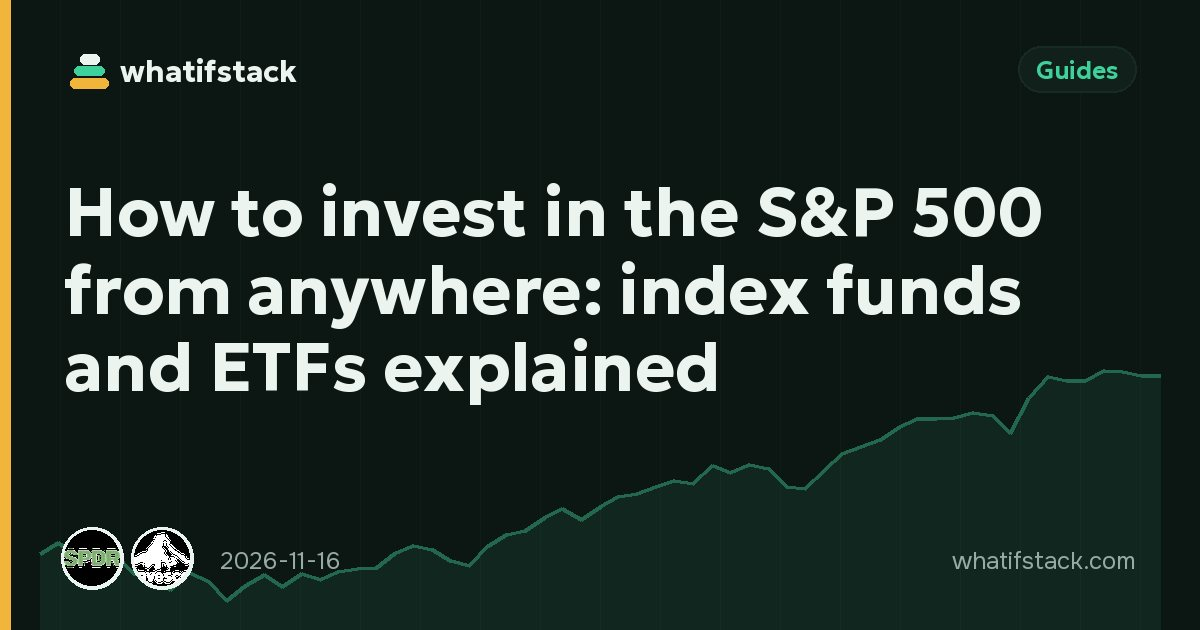
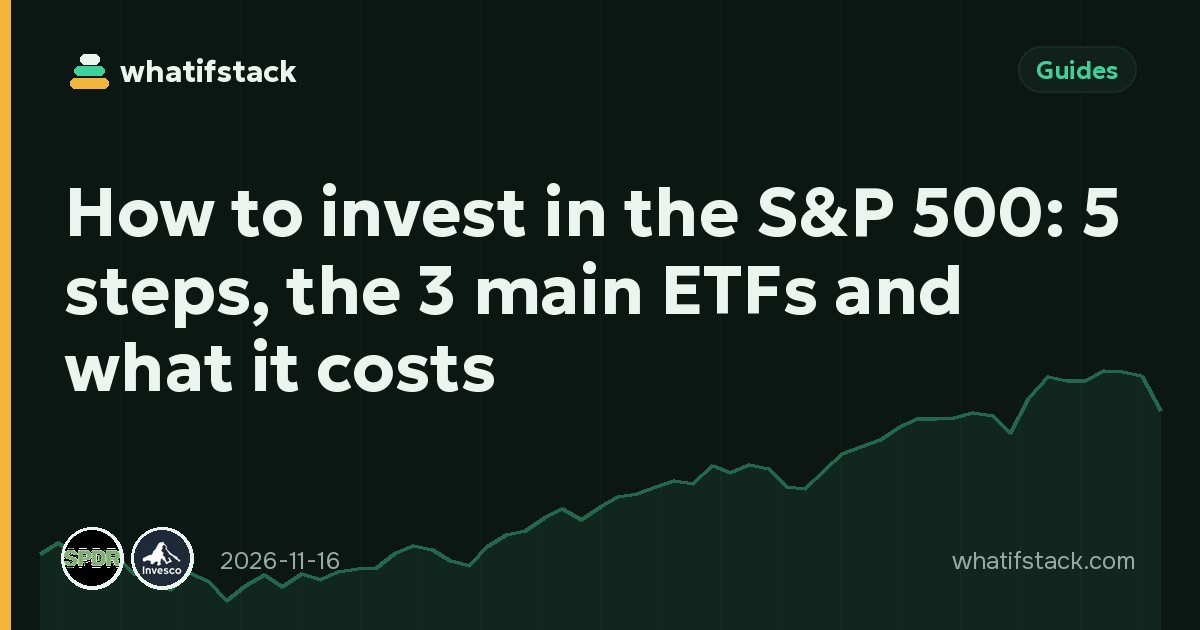
SEO: 5 pages (ja/how-to-buy-bitcoin, en/how-to-invest-in-sp500, ja/what-is-ethereum, th/how-to-invest-in-sp500, es/what-is-a-dex)
Claude-Session: https://claude.ai/code/session_01Nmn9VRCQsHGjEWwWUTMvjW

Changed region(s): [[0.0308, 0.4222, 0.8633, 0.6333], [0.8633, 0.3016, 0.9558, 0.3921], [0.0925, 0.8444, 0.185, 0.9349]]

diff --git a/social/seo-log.md b/social/seo-log.md
@@ -1,0 +1,17 @@
+# SEO quality log — «quality + SEO» task
+
+Rules: ≤ 5 pages per run; each page changed at most once per 30 days; never URLs/slugs; only that page's own title / description / lead (asset pages: only the asset's own data). After 14 days fill «result» (clicks / CTR / position before → after); revert if clearly worse.
+
+date | url | query | impressions | position | CTR | what changed | result after 14 days
+---|---|---|---|---|---|---|---
+2026-11-23 | /ja/blog/how-to-buy-bitcoin/ | 仮想通貨 買い方 (17 / 15.5); 暗号資産 買い方 15 / 24.5; ビットコイン 購入 15 / 30.1; ビットコイン 買い方 23 / 71.1 | 195 | 49.9 | 0 % (0 clicks) | title «ビットコインの買い方:仮想通貨(暗号資産)を1,000円から購入する6ステップ», description (6 steps, 1,000円), lead answers in 2 sentences (6 steps, 金融庁 registered exchange → KYC → JPY → buy); new cover. Live check OK (no raw {{ }}, 390 px OK) | due 2026-12-07
+2026-11-23 | /en/blog/how-to-invest-in-sp500/ | how to invest in s&p 500 (19 / 45.5); how to invest in s&p 500 index fund 9 / 70.7; buy s&p 500 7 / 66.3 | 151 | 60.6 | 0 % | title «How to invest in the S&P 500: 5 steps, the 3 main ETFs and what it costs», description with 5 steps + SPY/VOO/IVV, new lead that answers how (ETF via regulated broker, fractional shares); new cover. Live check OK | due 2026-12-07
+2026-11-23 | /ja/blog/what-is-ethereum/ | イーサリアム (18 / 25.7); ethとは 9 / 20.0; イーサリアムとは 8 / 37.9 | 94 | 42.6 | 0 % | title «イーサリアム(ETH)とは?仕組みとビットコインとの違いをわかりやすく解説», description (2015, smart contracts, gas, staking), first sentence «イーサリアム(ETH)とは…»; new cover. Live check OK | due 2026-12-07
+2026-11-23 | /th/blog/how-to-invest-in-sp500/ | วิธีซื้อกองทุน s&p 500 (13 / 16.8); s p500 etf 10 / 6.5; sp 500 etf 6 / 8.0 | 76 | 32.8 | 0 % | title «วิธีซื้อกองทุน S&P 500 สำหรับคนไทย: 2 ทางเลือก, ETF อย่าง SPY/VOO และค่าใช้จ่าย», description, new first paragraph answering the 2 ways (Thai fund in THB / foreign broker ETF); new cover. Live check OK | due 2026-12-07
+2026-11-23 | /es/blog/what-is-a-dex/ | dex crypto (13 / 32.1); que es un dex crypto 12 / 32.2; dex cripto 10 / 32.3; dex criptomonedas 8 / 35.4 | 52 | 33.6 | 0 % | title «Qué es un DEX en cripto: cómo funciona un exchange descentralizado frente a un CEX», description (0,05–1 % per swap), first sentence «¿Qué es un DEX en cripto?»; new cover. Live check OK | due 2026-12-07
+
+## Notes (not changed — template/code pages, for the owner)
+- 2026-11-23: converter hubs /it/ /fr/ /es/ /ru/ /ja/converter/ have the most impressions (290 / 226 / 166 / 158 / 132, pos 9–16, 0 clicks) but only for junk queries («<bank> mobile apps», operator searches) — no real demand to target.
+- 2026-11-23: /en/crypto-exchanges/ 89 impr / pos 25 («biggest / largest crypto exchanges») is noindex by the owner's choice (hidden since 2026-11-20).
+- 2026-11-23: /ru/largest-companies/ 87 / 8.8 («крупнейшие компании мира по капитализации») and /tr/largest-companies/ 52 / 16.8 («dünyanın en büyük şirketleri 2026» 14 / 7.2) — title already matches; the meta description is the shared generic `lead` in scripts/i18n_lc.py, so a page-own description needs a small code change (owner decision).
+- 2026-11-23: /en/largest-companies/uk/ 92 / 24.6 — ranking wrong (GBp market caps ÷100), already reported.

diff --git a/content/blog/th/how-to-invest-in-sp500.md b/content/blog/th/how-to-invest-in-sp500.md
@@ -1,10 +1,12 @@
 ---
-title: ลงทุน S&P 500 ยังไง สำหรับคนไทย: กองทุนดัชนีและ ETF อธิบายง่าย ๆ
-description: ลงทุน S&P 500 ยังไงสำหรับคนไทย: ดัชนีนี้คืออะไร ETF อย่าง SPY และ VOO ทำงานอย่างไร กองทุนรวมไทยที่อิง S&P 500 มีค่าใช้จ่ายอะไรบ้าง และผลของการทยอยซื้อในอดีต
+title: วิธีซื้อกองทุน S&P 500 สำหรับคนไทย: 2 ทางเลือก, ETF อย่าง SPY/VOO และค่าใช้จ่าย
+description: วิธีซื้อกองทุน S&P 500 สำหรับคนไทย 2 ทาง: กองทุนรวมไทยเป็นเงินบาท หรือ ETF อย่าง SPY/VOO ผ่านโบรกเกอร์ต่างประเทศ ค่าใช้จ่าย ความเสี่ยงค่าเงิน ผลการทยอยซื้อ
 date: 2026-11-16
 category: guides
 assets: spy, qqq, gold
 ---
+**วิธีซื้อกองทุน S&P 500** สำหรับคนไทยมี 2 ทาง: ซื้อกองทุนรวมไทยที่อิง S&P 500 เป็นเงินบาทผ่านแอปธนาคารหรือแพลตฟอร์มซื้อกองทุน หรือเปิดบัญชีโบรกเกอร์ต่างประเทศเพื่อซื้อ S&P 500 ETF อย่าง SPY, VOO หรือ IVV โดยตรง ทั้งสองทางทำให้คุณเป็นเจ้าของหุ้นบริษัทใหญ่ของสหรัฐฯ ราว 500 แห่งพร้อมกันในครั้งเดียว
+
 **S&P 500** คือรายชื่อบริษัทใหญ่ราว 500 แห่งที่จดทะเบียนในตลาดหุ้นสหรัฐฯ เช่น Apple, Microsoft, Nvidia, Amazon และอีกหลายร้อยบริษัท เวลาคนพูดว่า "ตลาดหุ้นอเมริกาวันนี้ขึ้น" ส่วนใหญ่หมายถึงดัชนีตัวนี้
 
 คุณซื้อดัชนีโดยตรงไม่ได้ แต่ซื้อกองทุนที่ลอกเลียนดัชนีได้ และนั่นคือหนึ่งในวิธีที่ง่ายที่สุดในการเป็นเจ้าของหุ้นบริษัทใหญ่หลายร้อยแห่งพร้อมกันทีละนิด

diff --git a/content/blog/ja/how-to-buy-bitcoin.md b/content/blog/ja/how-to-buy-bitcoin.md
@@ -1,13 +1,13 @@
 ---
-title: ビットコインの買い方:初心者向けステップバイステップガイド
-description: ビットコインの買い方を6ステップで解説。金融庁登録の取引所選び、本人確認、入金、購入、積立設定、安全対策まで初心者向けにやさしく紹介します。
+title: ビットコインの買い方:仮想通貨(暗号資産)を1,000円から購入する6ステップ
+description: ビットコイン・仮想通貨の買い方を6ステップで解説。金融庁登録の取引所選び、本人確認、日本円の入金、数百円〜1,000円からの購入、積立設定、安全対策まで初心者向けに紹介します。
 date: 2026-11-15
 category: guides
 assets: btc, eth
 ---
-**ビットコインの買い方**は、今では銀行アプリを開くのとほとんど変わらないほど簡単です。難しいのはボタンを押すことではなく、安全な取引所を選ぶこと、手数料を払いすぎないこと、そして初めて価格が20%下がったときに慌てないことです。
+**ビットコインの買い方**は、ほかの仮想通貨(暗号資産)の買い方と同じく6ステップで終わります。金融庁に登録された取引所で口座を開き、本人確認をして日本円を入金すれば、数百円〜1,000円程度から購入できます。難しいのはボタンを押すことではなく、安全な取引所を選ぶこと、手数料を払いすぎないこと、そして初めて価格が20%下がったときに慌てないことです。
 
-このガイドでは、購入の流れを最初から最後までわかりやすく説明します。現在のビットコイン価格は {{price:btc}} ですが、1枚まるごと買う必要はありません。ほとんどの取引所では、数百円〜1,000円程度から少額で買えます。
+このガイドでは、購入の流れを最初から最後までわかりやすく説明します。現在のビットコイン価格は {{price:btc}} ですが、1枚まるごと買う必要はなく、0.0001 BTCのような小さな単位で買えます。
 
 ## ステップ1. 日本で登録された取引所を選ぶ
 

diff --git a/content/blog/ja/what-is-ethereum.md b/content/blog/ja/what-is-ethereum.md
@@ -1,11 +1,11 @@
 ---
-title: イーサリアムとは?ビットコインとの違いをわかりやすく解説
-description: イーサリアムとは何かを初心者向けにやさしく解説。スマートコントラクト、ガス代、ステーキングの仕組み、ビットコインとの違い、過去の大暴落の歴史まで。
+title: イーサリアム(ETH)とは?仕組みとビットコインとの違いをわかりやすく解説
+description: イーサリアム(ETH)とは何かを初心者向けに解説。2015年に稼働したスマートコントラクトの仕組み、ガス代、ステーキング、ビットコインとの違い、過去の暴落まで。
 date: 2026-11-16
 category: guides
 assets: eth, btc
 ---
-**イーサリアムとは**、誰にも止められないプログラムを動かす世界規模のネットワークです。ビットコインは主に「デジタルのお金」として作られました。一方イーサリアムは「みんなで使う1台のコンピューター」として作られ、送金だけでなく、取引、貸し借り、ゲーム、デジタルコレクション、ステーブルコインなどのアプリが動いています。
+**イーサリアム(ETH)とは**、2015年に動き始めた、誰にも止められないプログラム(スマートコントラクト)を動かす世界規模のネットワークで、ETHはその通貨です。ビットコインは主に「デジタルのお金」として作られました。一方イーサリアムは「みんなで使う1台のコンピューター」として作られ、送金だけでなく、取引、貸し借り、ゲーム、デジタルコレクション、ステーブルコインなどのアプリが動いています。
 
 ネットワーク独自のコインは **イーサ(ETH)** と呼ばれます。現在、1 ETHの価格は {{price:eth}} です。ビットコインと同じように細かく分割できるので、少額から買うこともできます。
 

diff --git a/content/blog/es/what-is-a-dex.md b/content/blog/es/what-is-a-dex.md
@@ -1,11 +1,11 @@
 ---
-title: Qué es un DEX y en qué se diferencia de un exchange de criptomonedas
-description: ¿Qué es un DEX? Guía sencilla sobre los exchanges descentralizados: AMM, pools de liquidez, wallets, comisiones de gas y ventajas y desventajas frente a un CEX.
+title: Qué es un DEX en cripto: cómo funciona un exchange descentralizado frente a un CEX
+description: Qué es un DEX en cripto: cómo funcionan Uniswap o Raydium, pools de liquidez, wallets, gas, comisiones del 0,05–1% por swap y diferencias con un CEX.
 date: 2026-11-16
 category: guides
 assets: eth, sol, uni
 ---
-**¿Qué es un DEX?** Un DEX (exchange descentralizado) es un conjunto de contratos inteligentes en una blockchain que te permite cambiar un token por otro directamente desde tu propia wallet. No hay ninguna empresa que guarde tu dinero, no hay cuenta y normalmente no hay verificación de identidad. Uniswap en Ethereum, y Raydium, Orca y Meteora en Solana, son ejemplos conocidos.
+**¿Qué es un DEX en cripto?** Un DEX (exchange descentralizado de criptomonedas) es un conjunto de contratos inteligentes en una blockchain que te permite cambiar un token por otro directamente desde tu propia wallet. No hay ninguna empresa que guarde tu dinero, no hay cuenta y normalmente no hay verificación de identidad. Uniswap en Ethereum, y Raydium, Orca y Meteora en Solana, son ejemplos conocidos.
 
 Un exchange de criptomonedas normal como Binance, Coinbase o Kraken es un **CEX** (exchange centralizado): una empresa que guarda tus fondos, cruza compradores y vendedores en su propio sistema y tiene que cumplir las normas financieras.
 

diff --git a/content/blog/en/how-to-invest-in-sp500.md b/content/blog/en/how-to-invest-in-sp500.md
@@ -1,13 +1,13 @@
 ---
-title: How to invest in the S&P 500 from anywhere: index funds and ETFs explained
-description: How to invest in the S&P 500 from any country: what the index is, how ETFs like SPY and VOO work, what it costs, and how regular buying worked.
+title: How to invest in the S&P 500: 5 steps, the 3 main ETFs and what it costs
+description: How to invest in the S&P 500 in 5 steps from any country: pick a broker, choose an ETF like SPY, VOO or IVV, compare fees, and see what regular buying returned.
 date: 2026-11-16
 category: guides
 assets: spy, qqq, gold
 ---
-The **S&P 500** is a list of about 500 of the largest companies listed in the United States — Apple, Microsoft, Nvidia, Amazon and hundreds more. When people say "the market went up today", they usually mean this index.
+**How to invest in the S&P 500:** you cannot buy the index itself, so you buy a fund that copies it — an S&P 500 ETF such as SPY, VOO or IVV, or a local index fund — through a regulated broker. With fractional shares you can start with a few dollars, and that one purchase gives you a small piece of about 500 of the largest US companies at once.
 
-You cannot buy an index directly. But you can buy a fund that copies it, and that is one of the simplest ways to own a small piece of hundreds of big companies at once.
+The **S&P 500** is that list of companies — Apple, Microsoft, Nvidia, Amazon and hundreds more. When people say "the market went up today", they usually mean this index. Below are the 5 steps, the costs and what regular buying has actually returned.
 
 ## What the S&P 500 actually is
 
